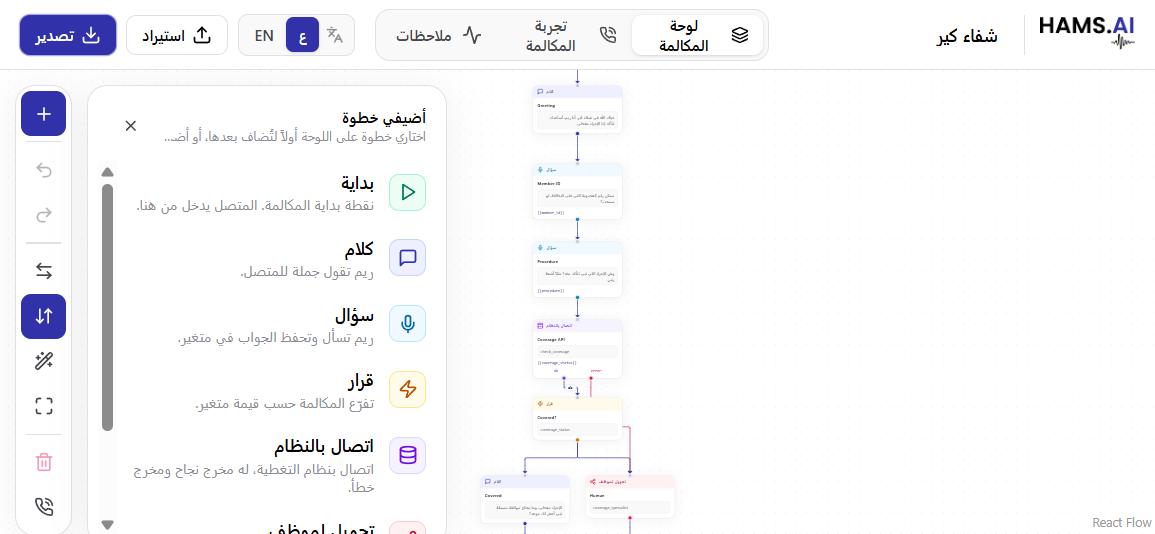
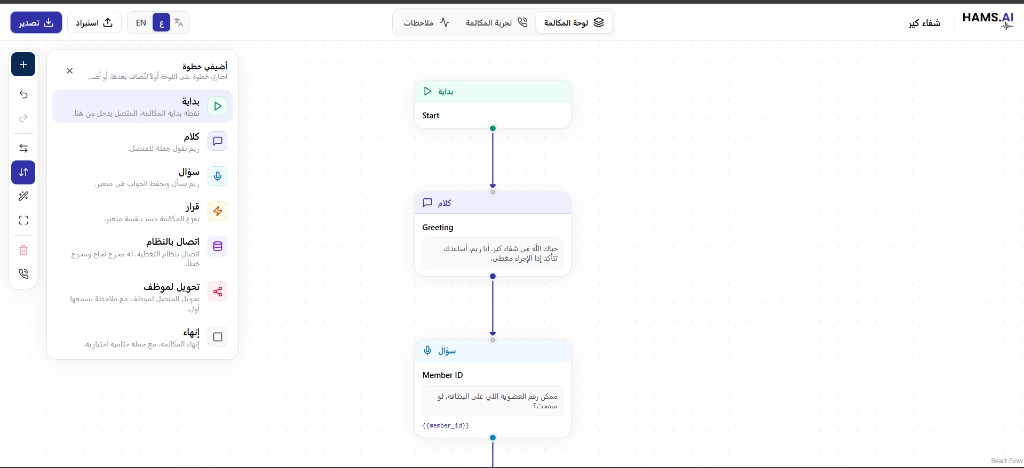
Update README with new test call section and add screenshots; modify FlowCanvas to hide attribution in light mode

diff --git a/src/index.css b/src/index.css
@@ -61,7 +61,6 @@ html, body, #root {
 .voice-bar:nth-child(5) { animation-delay: 0.48s; }
 
 /* React Flow chrome on the light theme */
-.react-flow__attribution { background: transparent; color: #8a8d93; }
 .react-flow__edge-path { stroke-linecap: round; }
 .react-flow .react-flow__node.draggable { cursor: pointer; }
 .react-flow .react-flow__node.draggable.dragging { cursor: grabbing; }

diff --git a/src/components/canvas/FlowCanvas.tsx b/src/components/canvas/FlowCanvas.tsx
@@ -222,6 +222,7 @@ export function FlowCanvas({ onQuickCall }: { onQuickCall: () => void }) {
         onPaneClick={onPaneClick}
         onMoveStart={hidePalette}
         colorMode="light"
+        proOptions={{ hideAttribution: true }}
         fitView
         fitViewOptions={{ padding: 0.2, maxZoom: 1 }}
         minZoom={0.3}

diff --git a/README.md b/README.md
@@ -10,6 +10,12 @@ Browser editor for Shifa Care (شفاء كير). Reem designs a Hams.AI phone ca
 | --- | --- |
 | ![Step menu with icon, name, and description](docs/screenshots/add-step-menu.png) | ![Step details panel](docs/screenshots/step-details.png) |
 
+| Test call with a Munsit voice | Notes: the call is safe |
+| --- | --- |
+| ![Test call screen](docs/screenshots/test-call.png) | ![Notes screen with no issues](docs/screenshots/notes-clean.png) |
+
+![Notes screen showing a tool step that needs an ok and an error exit](docs/screenshots/notes-issue.png)
+
 The call is a JSON document with `schemaVersion: 1`. Each step is a node: `start`, `say`, `ask`, `condition`, `tool`, `transfer`, or `end`. Lines between steps are edges, and a tool edge can be `ok` or `error`.
 
 ## Run
